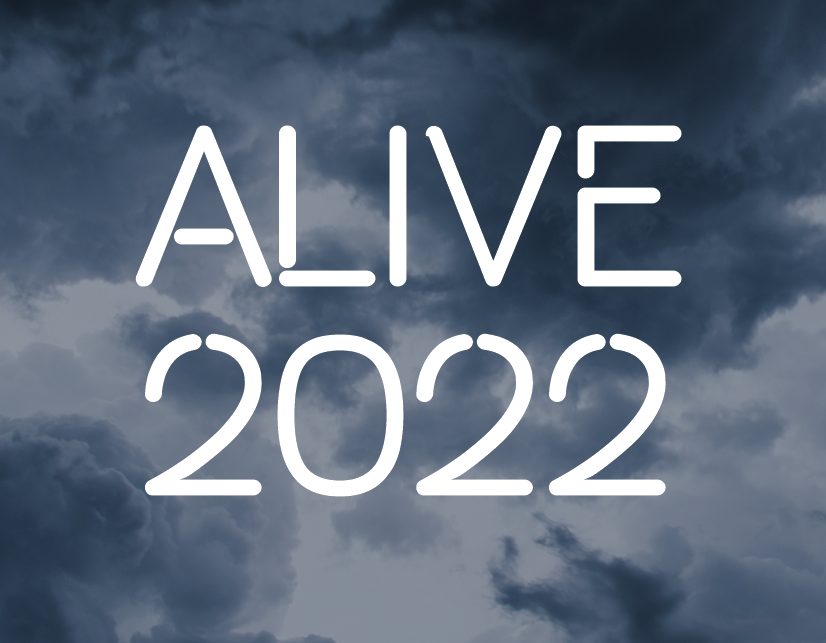
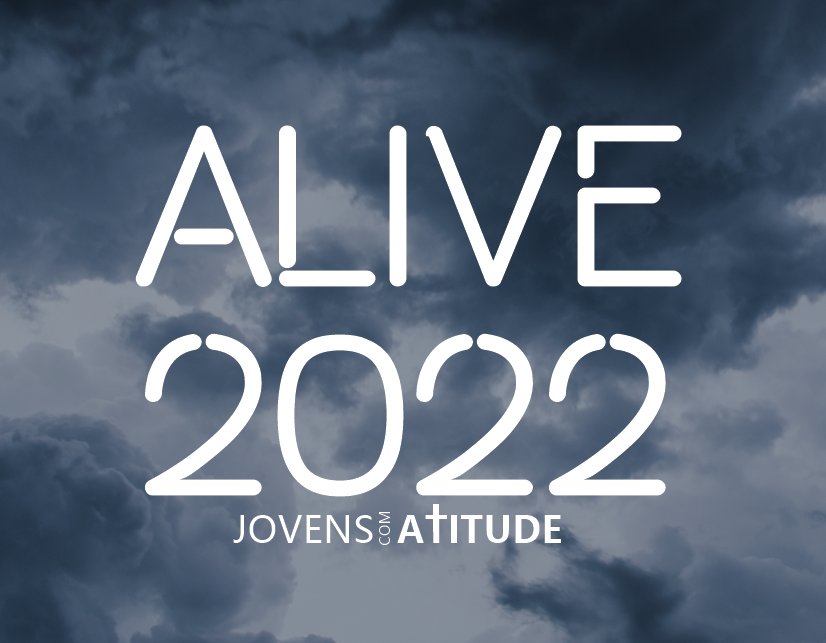
alteração da foto de perfil e links para atalhos as fotos do retiro

Changed region(s): [[0.2724, 0.7776, 0.6961, 0.8398]]

diff --git a/index.html b/index.html
@@ -12,11 +12,11 @@
     <div class="link-bio">
         <img src="alive.png" alt="perfil">
         <h1 class="titulo">pegue aqui suas fotos</h1>
-        <a class="titulo" href="https://drive.google.com/drive/u/0/folders/1PjQINZzSRW5tEHWh9qGWpOM7OF1Ut6Ey" target="_blank">SEXTA DE NOITE</a>
-        <a class="titulo" href="https://drive.google.com/drive/u/0/folders/1uqv34KP2DHPWqBtrrci25VQRhqs6dHCe" target="_blank">SABADO DE MANHA</a>
-        <a class="titulo" href="https://drive.google.com/drive/u/0/folders/1IZ_h77pDTbBSCDB2f1bEXOe7stBxknpN" target="_blank">SABADO DE TARDE</a>
-        <a class="titulo" href="https://drive.google.com/drive/u/0/folders/13Iv0rzqgntouvSP0RPD-eBwj1LY6gDVD" target="_blank">SABADO DE NOITE</a>
-        <a class="titulo" href="https://drive.google.com/drive/u/0/folders/1fFjhUuTAFSvPNLYIqH52MrETafGCbyDm" target="_blank">DOMINGO DE MANHA</a>
+        <a class="titulo" href="" target="_blank">SEXTA DE NOITE</a>
+        <a class="titulo" href="" target="_blank">SABADO DE MANHA</a>
+        <a class="titulo" href="" target="_blank">SABADO DE TARDE</a>
+        <a class="titulo" href="" target="_blank">SABADO DE NOITE</a>
+        <a class="titulo" href="" target="_blank">DOMINGO DE MANHA</a>
         <a class="titulo" href="" target="_blank">DOMINGO DE TARDE</a>
     </div>
 
